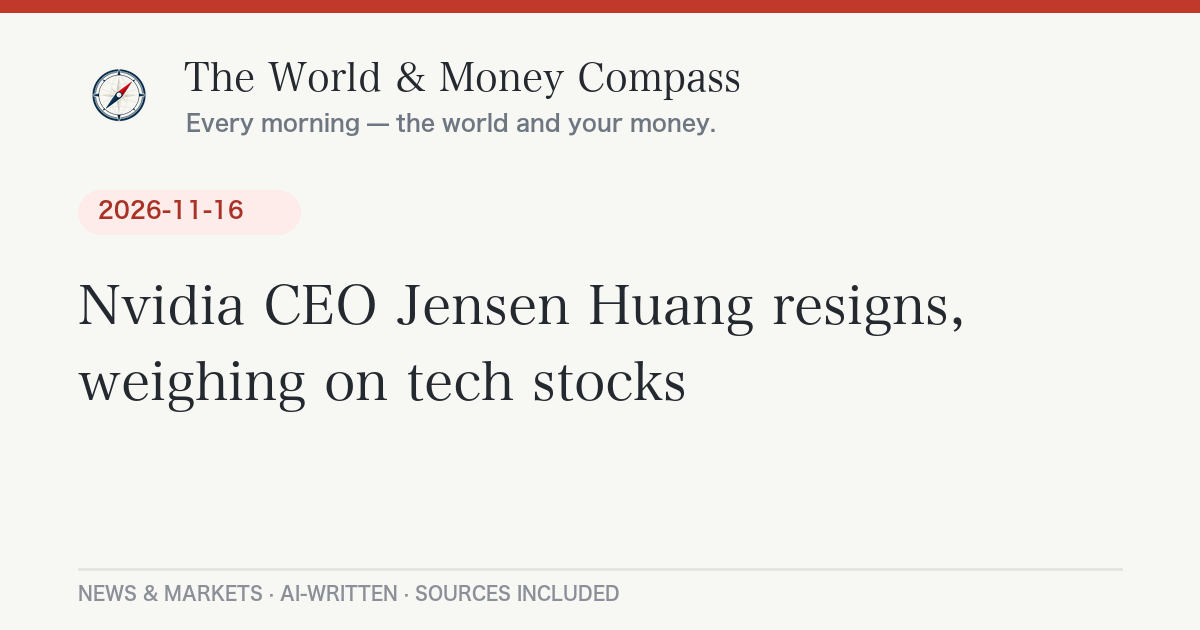
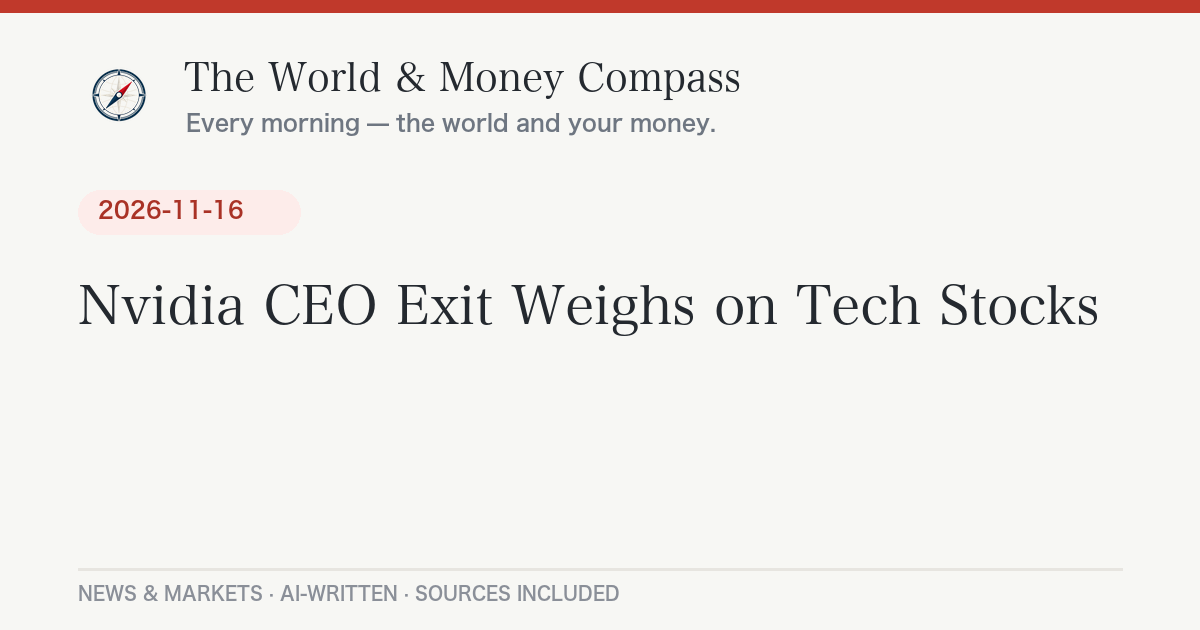
Daily briefing 2026-11-18

Changed region(s): [[0.3083, 0.4524, 0.925, 0.5429], [0.0617, 0.573, 0.5858, 0.6635]]

diff --git a/_posts/2026-11-18-daily-briefing.md b/_posts/2026-11-18-daily-briefing.md
@@ -1,0 +1,103 @@
+---
+layout: post
+lang: ja
+title: "米AI半導体規制強化で日経平均801円安、NVIDIA決算は市場予想上回る｜11月18日のニュースとお金"
+date: 2026-11-18 08:30:00 +0900
+categories: [ニュース, 経済]
+headline: "米AI半導体規制強化で日経平均801円安、NVIDIA決算は市場予想上回る"
+permalink: /2026/11/18/daily-briefing/
+---
+
+## 今日のポイント
+
+昨日は、アメリカが中国向けのAI半導体の「抜け道」をふさぐ新ルールを出したことと、NVIDIAの決算発表を前にした警戒感で、日米ともに株が下がりました。ところが、NVIDIAは発表後に予想を上回る決算と強い見通しを示し、時間外取引では株価が上向いています。今日の東京市場は、この「決算の安心感」と「規制の重し」のどちらが勝つかが焦点です。
+
+## 今日の羅針盤（Compass Insight）
+
+昨日の下げは、「悪材料が出たから売られた」というより、「大きなイベントの前にいったん持ち高を減らす動き」が重なった面が大きいと読めます。日経平均は半導体関連の比重が高く、NVIDIAの決算が好調だったとしても、アメリカの輸出規制という新しい不確実性が残るため、素直に上がるとは限りません。
+
+家計への影響で見ると、株安そのものよりも、**ドル円が159円台と円安水準にあること**と、**原油がWTIで86ドル前後と高止まりしていること**のほうが身近です。円安と原油高が重なると、ガソリン・電気代・輸入食品の値上がりとして、じわじわ家計に効きます。さらに米国では12月の利上げが意識されており、日米の金利差が意識される場面では、為替が動きやすくなります。
+
+短期では、NVIDIA決算を受けた半導体株の値動きと、中東情勢（ホルムズ海峡）に左右される原油の動きに注目です。中長期では、米中の技術規制がどこまで広がるか、そしてAI関連の巨額投資が利益に結びつくかが、相場の方向を決める可能性があります。
+
+## 今日のニュース
+
+### 日本
+
+- 高市首相はフィリピン・マニラでASEANプラス3の首脳会議に出席。[首脳声明にはエネルギーと食料安全保障の強化が盛り込まれました](https://news.infoseek.co.jp/article/yomiuri_20261117_gyt1t00392/)。会場では、台湾有事をめぐる国会答弁のあと初めて、中国の農業農村相と[握手して短く言葉を交わした](https://www.tokyo-np.co.jp/article/528777)と報じられています。
+- 高市首相は、脱炭素の連携枠組み「アジア・ゼロエミッション共同体（AZEC）」の[首脳会合も開きました](https://news.yahoo.co.jp/articles/18c69595a838e313573773fe2e092e31e6514bce)。
+- NHKは、APECの首脳会議にあわせて高市首相が[プーチン大統領と接触する見通し](https://news.web.nhk/newsweb/na/nd-20261117de77251)だと、政権幹部の話として報じています。
+- 日経平均は[終値で5万9000円を割り込み](https://www.nikkei.com/article/DGXZQOFL175R80X11C26A1000000/)ました（詳しくは経済のコーナー）。
+
+### 世界
+
+- 中東では、アメリカがイランの[ケシュム島に空爆](https://www.cbsnews.com/live-updates/iran-war-us-nuclear-oil-strait-of-hormuz/)を行ったと報じられました。ホルムズ海峡周辺では[複数のタンカーが被害を受けた](https://www.aljazeera.com/news/liveblog/2026/11/16/live-houthis-advance-in-yemen-as-tankers-hit-sea-mines-in-strait-of-hormuz?update=5161645)とされています。
+- イランは、米海軍第5艦隊が拠点を置くバーレーンへの[3回目の攻撃](https://www.kpbs.org/news/international/2026/11/17/iran-launches-a-third-round-of-strikes-on-bahrain-host-of-u-s-navys-5th-fleet)に踏み切り、約2か月続いた小康状態が破られました。
+- ロシアとウクライナは今月10〜11日にアブダビでアメリカ仲介の協議を行い、[捕虜交換で合意](https://www.euronews.com/2026/11/11/ukraine-russia-peace-talks-enter-second-day-with-territory-and-security-guarantees-in-focu)しましたが、領土問題などで決定的な前進はありませんでした。
+
+### アメリカ
+
+- 米商務省は16日、中国企業が海外のデータセンター経由で先端AI半導体を使う「抜け道」をふさぐ新ルールを発表。シンガポール、マレーシア、タイ、インドネシア、ブラジルのデータセンターが先端半導体を受け取る際に[政府の許可が必要になります](https://www.datacenterdynamics.com/en/news/us-dept-of-commerce-issues-rule-to-restrict-remote-access-to-advanced-ai-chips/)。トランプ大統領の中国訪問を前にした動きと[報じられています](https://www.cnn.com/2026/11/16/politics/ai-chips-restrictions-china)。
+- NVIDIAが17日の取引終了後に決算を発表。[売上高は1,158億ドル](https://www.globenewswire.com/news-release/2026/11/17/3405200/0/en/nvidia-announces-financial-results-for-third-quarter-fiscal-2027.html)（前年同期比103%増）で、次の四半期の見通しは1,300億ドル前後でした。ジェンスン・ファン氏がCEOを退いてから初めての決算です。
+- アメリカの大手AI企業アンソロピックの新規株式公開（IPO）は、[価格決定が18日、取引開始が19日の見通し](https://www.morningstar.com/markets/markets-brief-big-week-ahead-nvidia-report-earnings-anthropic-debut-ipo)と報じられています。
+
+### ヨーロッパ
+
+- EUでは、ドイツのメルツ首相が「ウクライナ支援の合意がなければEU予算の議論は進めない」と求めたことに、スロバキアやハンガリーなどが反発。コスタ欧州理事会議長は[今月末の特別首脳会議で両方を扱う](https://www.euronews.com/2026/11/10/costa-seeks-to-reassure-merz-after-eu-budget-ultimatum)考えを示しています。
+- ウクライナの資金不足（約700億ユーロ）のうち、EUは3分の2、およそ450億ユーロをまかなう方針ですが、[具体的な仕組みはまだ決まっていません](https://www.euronews.com/2026/11/10/eu-budget-battle-erupts-as-four-countries-defy-merz-over-ukraine-aid)。
+
+## 経済とお金の動き
+
+### 世界の経済と原油・相場
+
+| 指標 | 水準 | 前日比など |
+|---|---|---|
+| 日経平均株価（17日終値） | [58,860.43円](https://www.nikkei.com/article/DGXZQOFL1753O0X11C26A1000000/) | <span class="chg-down">-801.59円（-1.34%）</span> |
+| NYダウ（17日終値） | 約50,750ドル | <span class="chg-down">約-1.6%</span> |
+| S&P500（17日終値） | [7,340.53](https://cappnotes.substack.com/p/closing-look-tuesday-november-17) | <span class="chg-down">-76.06（-1.03%）</span> |
+| ナスダック総合（17日終値） | 約24,328 | <span class="chg-down">約-0.74%（4日続落）</span> |
+| WTI原油（12月限） | [86.01ドル/バレル](https://www.rigzone.com/news/wire/oil_prices_swing_as_gulf_attacks_continue-17-nov-2026-185107-article/) | 中東情勢で乱高下 |
+| ドル円（11月17日基準） | [159.3円](https://api.frankfurter.app/latest?from=USD&to=JPY) | 円安水準 |
+
+ドル円はECB基準のレートで、基準日は11月17日です。原油は、ホルムズ海峡での船舶への攻撃という不安材料と、中東産原油の輸出回復による供給過剰の見方がぶつかり、1日の中で上下に振れました。ブレント原油（1月限）は93.14ドルと、年初から5割超高い水準です。
+
+### アメリカの経済
+
+17日のNY株式市場は、ハイテク株と金融株を中心に売られ、S&P500は約5か月ぶりの安値圏、ダウは1.5か月ぶりの安値で引けました。市場では、12月にFRBが0.25%の利上げをする確率が[95%台](https://finance.yahoo.com/markets/stocks/articles/dow-p-500-nasdaq-futures-020421221.html)と織り込まれています。投資家は、10月のFOMC議事要旨と、NVIDIA決算の結果を待っていた格好です。
+
+### 日本の経済
+
+日経平均は2日続けて下落し、終値が5万9000円を下回ったのは9日以来です。米商務省のAI半導体の輸出規制強化と、NVIDIA決算を前にした警戒感で、値がさの半導体関連株が売られました。TOPIXは1.6%安と、日経平均より下げが大きくなりました（[日本経済新聞](https://www.nikkei.com/article/DGXZQOUB170JMTX11C26A1000000/)）。
+
+## 今日の注目銘柄・セクター
+
+- **NVIDIA（半導体）**：決算で売上高・利益・見通しのすべてが市場予想を上回り、[時間外取引で3%ほど上昇](https://mlq.ai/news/nvidia-results-live-revenue-rises-103-to-1158-billion-and-it-guides-to-130-billion-in-its-first-report-since-jensen-huang-left/)したと報じられています。ただし、中国向けのデータセンター売上は見通しに含まれていません。規制強化の影響と合わせて、今日の半導体株全体の動きを左右しそうです。
+- **日本の半導体関連株**：昨日の東京市場で売りの中心でした。NVIDIA決算の好調が伝わると買い戻しが入る可能性がある一方、輸出規制の行方には引き続き注意が必要です。
+- **エネルギー関連**：中東情勢の悪化で原油が高止まりしており、米株式市場でも[エネルギー株は下げに強かった](https://247wallst.com/cards/us-stocks-closed-lower-financials-lag-most-while-energy-holds-up-best-spy-market-explainer-01m7nrqqhftqh8xdk74y94v30h)と報じられています。
+
+*※特定銘柄の売買を推奨するものではありません。投資判断はご自身の責任で。*
+
+## まとめ：注目の3つ
+
+1. **NVIDIA決算の好結果が、規制強化の重さを打ち消せるか**：今日の半導体株の動きが相場全体の方向を決めそうです。
+2. **ドル円159円台と原油86ドル前後**：円安と原油高の重なりは、家計の負担増につながります。
+3. **アンソロピックのIPOと12月の米利上げ観測**：AI関連への資金の流れと金利の行方が、中期の相場の焦点です。
+
+---
+<div class="post-sources" markdown="1">
+
+**出典：**
+- [日本経済新聞：日経平均大引け 続落 801円安の5万8860円](https://www.nikkei.com/article/DGXZQOFL1753O0X11C26A1000000/)
+- [日本経済新聞：日経平均、終値801円安 NVIDIA騒動に米半導体規制の二重苦](https://www.nikkei.com/article/DGXZQOUB170JMTX11C26A1000000/)
+- [Closing Look：11月17日の米国市場](https://cappnotes.substack.com/p/closing-look-tuesday-november-17)
+- [NVIDIA：第3四半期決算（GlobeNewswire）](https://www.globenewswire.com/news-release/2026/11/17/3405200/0/en/nvidia-announces-financial-results-for-third-quarter-fiscal-2027.html)
+- [CNN：米政権がAI半導体の規制を強化](https://www.cnn.com/2026/11/16/politics/ai-chips-restrictions-china)
+- [Rigzone：原油価格の動き](https://www.rigzone.com/news/wire/oil_prices_swing_as_gulf_attacks_continue-17-nov-2026-185107-article/)
+- [読売新聞（Infoseek）：ASEANプラス3首脳声明](https://news.infoseek.co.jp/article/yomiuri_20261117_gyt1t00392/)
+- [Euronews：EU予算とウクライナ支援](https://www.euronews.com/2026/11/10/costa-seeks-to-reassure-merz-after-eu-budget-ultimatum)
+- [Al Jazeera：ホルムズ海峡のタンカー被害](https://www.aljazeera.com/news/liveblog/2026/11/16/live-houthis-advance-in-yemen-as-tankers-hit-sea-mines-in-strait-of-hormuz?update=5161645)
+- 市場データ: [frankfurter API](https://api.frankfurter.app/) ／ Yahoo Finance ほか
+
+*本記事は公開情報をもとに作成しています。*
+
+</div>

diff --git a/_posts/2026-11-18-daily-briefing-en.md b/_posts/2026-11-18-daily-briefing-en.md
@@ -1,0 +1,51 @@
+---
+layout: post
+lang: en
+title: "Nvidia Beats Estimates After Wall Street's AI-Chip Sell-Off — November 18, 2026"
+date: 2026-11-18 08:30:00 +0900
+headline: "Nvidia Beats Estimates After Wall Street's AI-Chip Sell-Off"
+permalink: /2026/11/18/daily-briefing/
+---
+
+## Top U.S. Stories
+
+- **Stocks slide ahead of Nvidia.** The Dow fell about 1.6% to roughly 50,750, and the S&P 500 [fell 1.03% to 7,340.53](https://cappnotes.substack.com/p/closing-look-tuesday-november-17), its weakest close in about five months. The Nasdaq lost about 0.74%, its fourth straight decline. *Why it matters:* Investors trimmed AI-related risk before two big events this week, Nvidia's earnings and the Anthropic IPO.
+- **Nvidia tops expectations.** After the close, the chipmaker reported [revenue of $115.8 billion, up 103% from a year earlier](https://www.globenewswire.com/news-release/2026/11/17/3405200/0/en/nvidia-announces-financial-results-for-third-quarter-fiscal-2027.html), and guided to about $130 billion next quarter, without assuming any China data-center compute revenue. Shares [rose about 3% in extended trading](https://mlq.ai/news/nvidia-results-live-revenue-rises-103-to-1158-billion-and-it-guides-to-130-billion-in-its-first-report-since-jensen-huang-left/). *Why it matters:* It is the first report since Jensen Huang left as CEO, and a strong print could ease worries about AI spending.
+- **Commerce tightens AI-chip rules.** The department's interim final rule [requires licenses](https://www.datacenterdynamics.com/en/news/us-dept-of-commerce-issues-rule-to-restrict-remote-access-to-advanced-ai-chips/) for data centers in Singapore, Malaysia, Thailand, Indonesia and Brazil that receive advanced U.S. AI chips, aiming to close a remote-access loophole for Chinese firms. It comes [ahead of Trump's China trip](https://www.cnn.com/2026/11/16/politics/ai-chips-restrictions-china). *Why it matters:* It adds a fresh policy risk for chip stocks that earnings alone may not erase.
+- **Gulf tensions flare again.** Iran launched its [third attack on U.S. targets in Bahrain](https://www.kpbs.org/news/international/2026/11/17/iran-launches-a-third-round-of-strikes-on-bahrain-host-of-u-s-navys-5th-fleet) in five days, ending a roughly two-month lull, and the U.S. [struck Iran's Qeshm Island](https://www.cbsnews.com/live-updates/iran-war-us-nuclear-oil-strait-of-hormuz/), according to live reports.
+- **Anthropic IPO nears.** Pricing is [expected Wednesday, with trading starting Thursday](https://www.morningstar.com/markets/markets-brief-big-week-ahead-nvidia-report-earnings-anthropic-debut-ipo), per pre-deal coverage.
+
+## Compass Insight
+
+Tuesday's drop looks less like a reaction to bad news and more like investors cutting exposure before a crowded calendar: Nvidia's results, the Fed minutes and the biggest AI listing yet. Nvidia's beat should help sentiment, but the new export rules leave a real policy overhang for semiconductors. In the short run, watch how chip stocks trade once the earnings glow fades, and whether oil, which stays elevated on Gulf tensions, keeps pressure on inflation expectations. Over the medium term, the questions are how far U.S.–China technology controls spread and whether markets keep pricing a December Fed hike. This is analysis, not investment advice.
+
+## Markets
+
+- S&P 500: 7,340.53 (-1.03%); Dow about 50,750 (-1.6%); Nasdaq about 24,328 (-0.74%), per [market recaps](https://247wallst.com/cards/us-stocks-closed-lower-financials-lag-most-while-energy-holds-up-best-spy-market-explainer-01m7nrqqhftqh8xdk74y94v30h).
+- Markets price roughly [95% odds of a quarter-point Fed hike in December](https://finance.yahoo.com/markets/stocks/articles/dow-p-500-nasdaq-futures-020421221.html).
+- WTI settled near [$86.01 a barrel and Brent near $93.14](https://www.rigzone.com/news/wire/oil_prices_swing_as_gulf_attacks_continue-17-nov-2026-185107-article/) amid swings tied to Gulf attacks. USD/JPY was [159.3](https://api.frankfurter.app/latest?from=USD&to=JPY) (ECB reference, Nov. 17).
+- In Tokyo, the Nikkei 225 [closed down 801.59 points (1.34%) at 58,860.43](https://www.nikkei.com/article/DGXZQOFL1753O0X11C26A1000000/).
+
+## Stocks in Focus
+
+- **Nvidia:** Beat on revenue, profit and guidance; the stock's reaction will set the tone for chips today.
+- **Energy:** Energy shares [held up best](https://247wallst.com/cards/us-stocks-closed-lower-financials-lag-most-while-energy-holds-up-best-spy-market-explainer-01m7nrqqhftqh8xdk74y94v30h) in Tuesday's sell-off as oil stayed elevated.
+
+*Not a recommendation to buy or sell any security.*
+
+---
+<div class="post-sources" markdown="1">
+
+**Sources:**
+- [Closing Look: Tuesday, November 17, 2026](https://cappnotes.substack.com/p/closing-look-tuesday-november-17)
+- [Nvidia Q3 FY2027 results (GlobeNewswire)](https://www.globenewswire.com/news-release/2026/11/17/3405200/0/en/nvidia-announces-financial-results-for-third-quarter-fiscal-2027.html)
+- [Data Center Dynamics: Commerce AI-chip rule](https://www.datacenterdynamics.com/en/news/us-dept-of-commerce-issues-rule-to-restrict-remote-access-to-advanced-ai-chips/)
+- [CNN: Trump administration tightens AI chip restrictions](https://www.cnn.com/2026/11/16/politics/ai-chips-restrictions-china)
+- [Rigzone: Oil prices swing as Gulf attacks continue](https://www.rigzone.com/news/wire/oil_prices_swing_as_gulf_attacks_continue-17-nov-2026-185107-article/)
+- [KPBS: Iran strikes on Bahrain](https://www.kpbs.org/news/international/2026/11/17/iran-launches-a-third-round-of-strikes-on-bahrain-host-of-u-s-navys-5th-fleet)
+- [Morningstar: Nvidia earnings and Anthropic IPO week](https://www.morningstar.com/markets/markets-brief-big-week-ahead-nvidia-report-earnings-anthropic-debut-ipo)
+- [Nikkei: Nikkei 225 closes at 58,860](https://www.nikkei.com/article/DGXZQOFL1753O0X11C26A1000000/)
+
+</div>
+
+*Auto-generated and AI-written. Not investment advice.*
